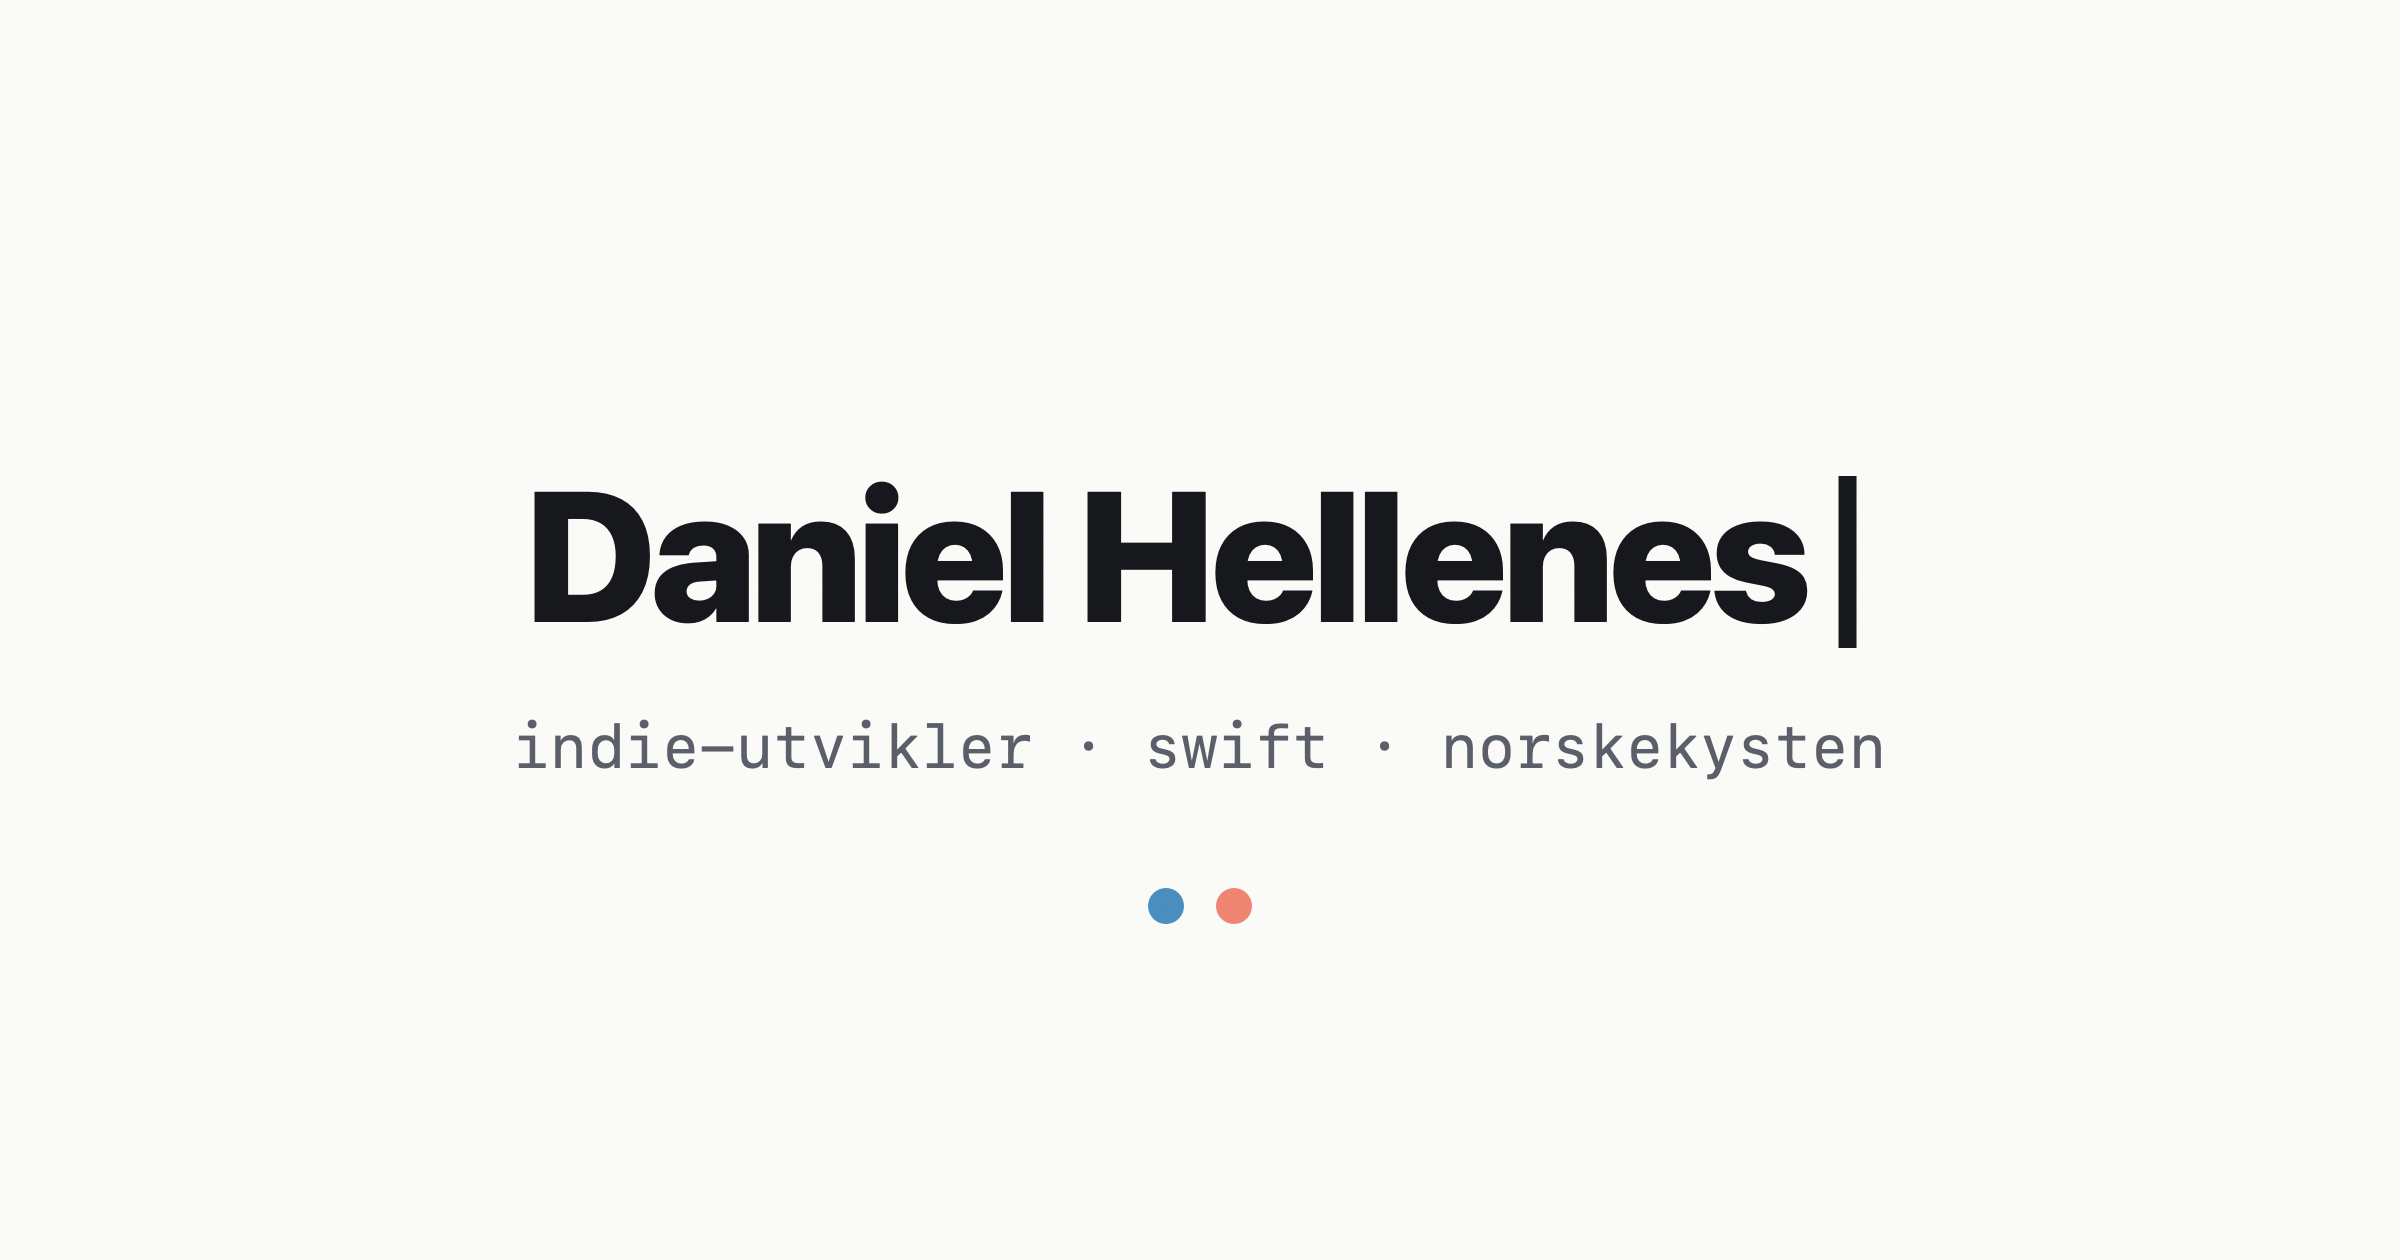
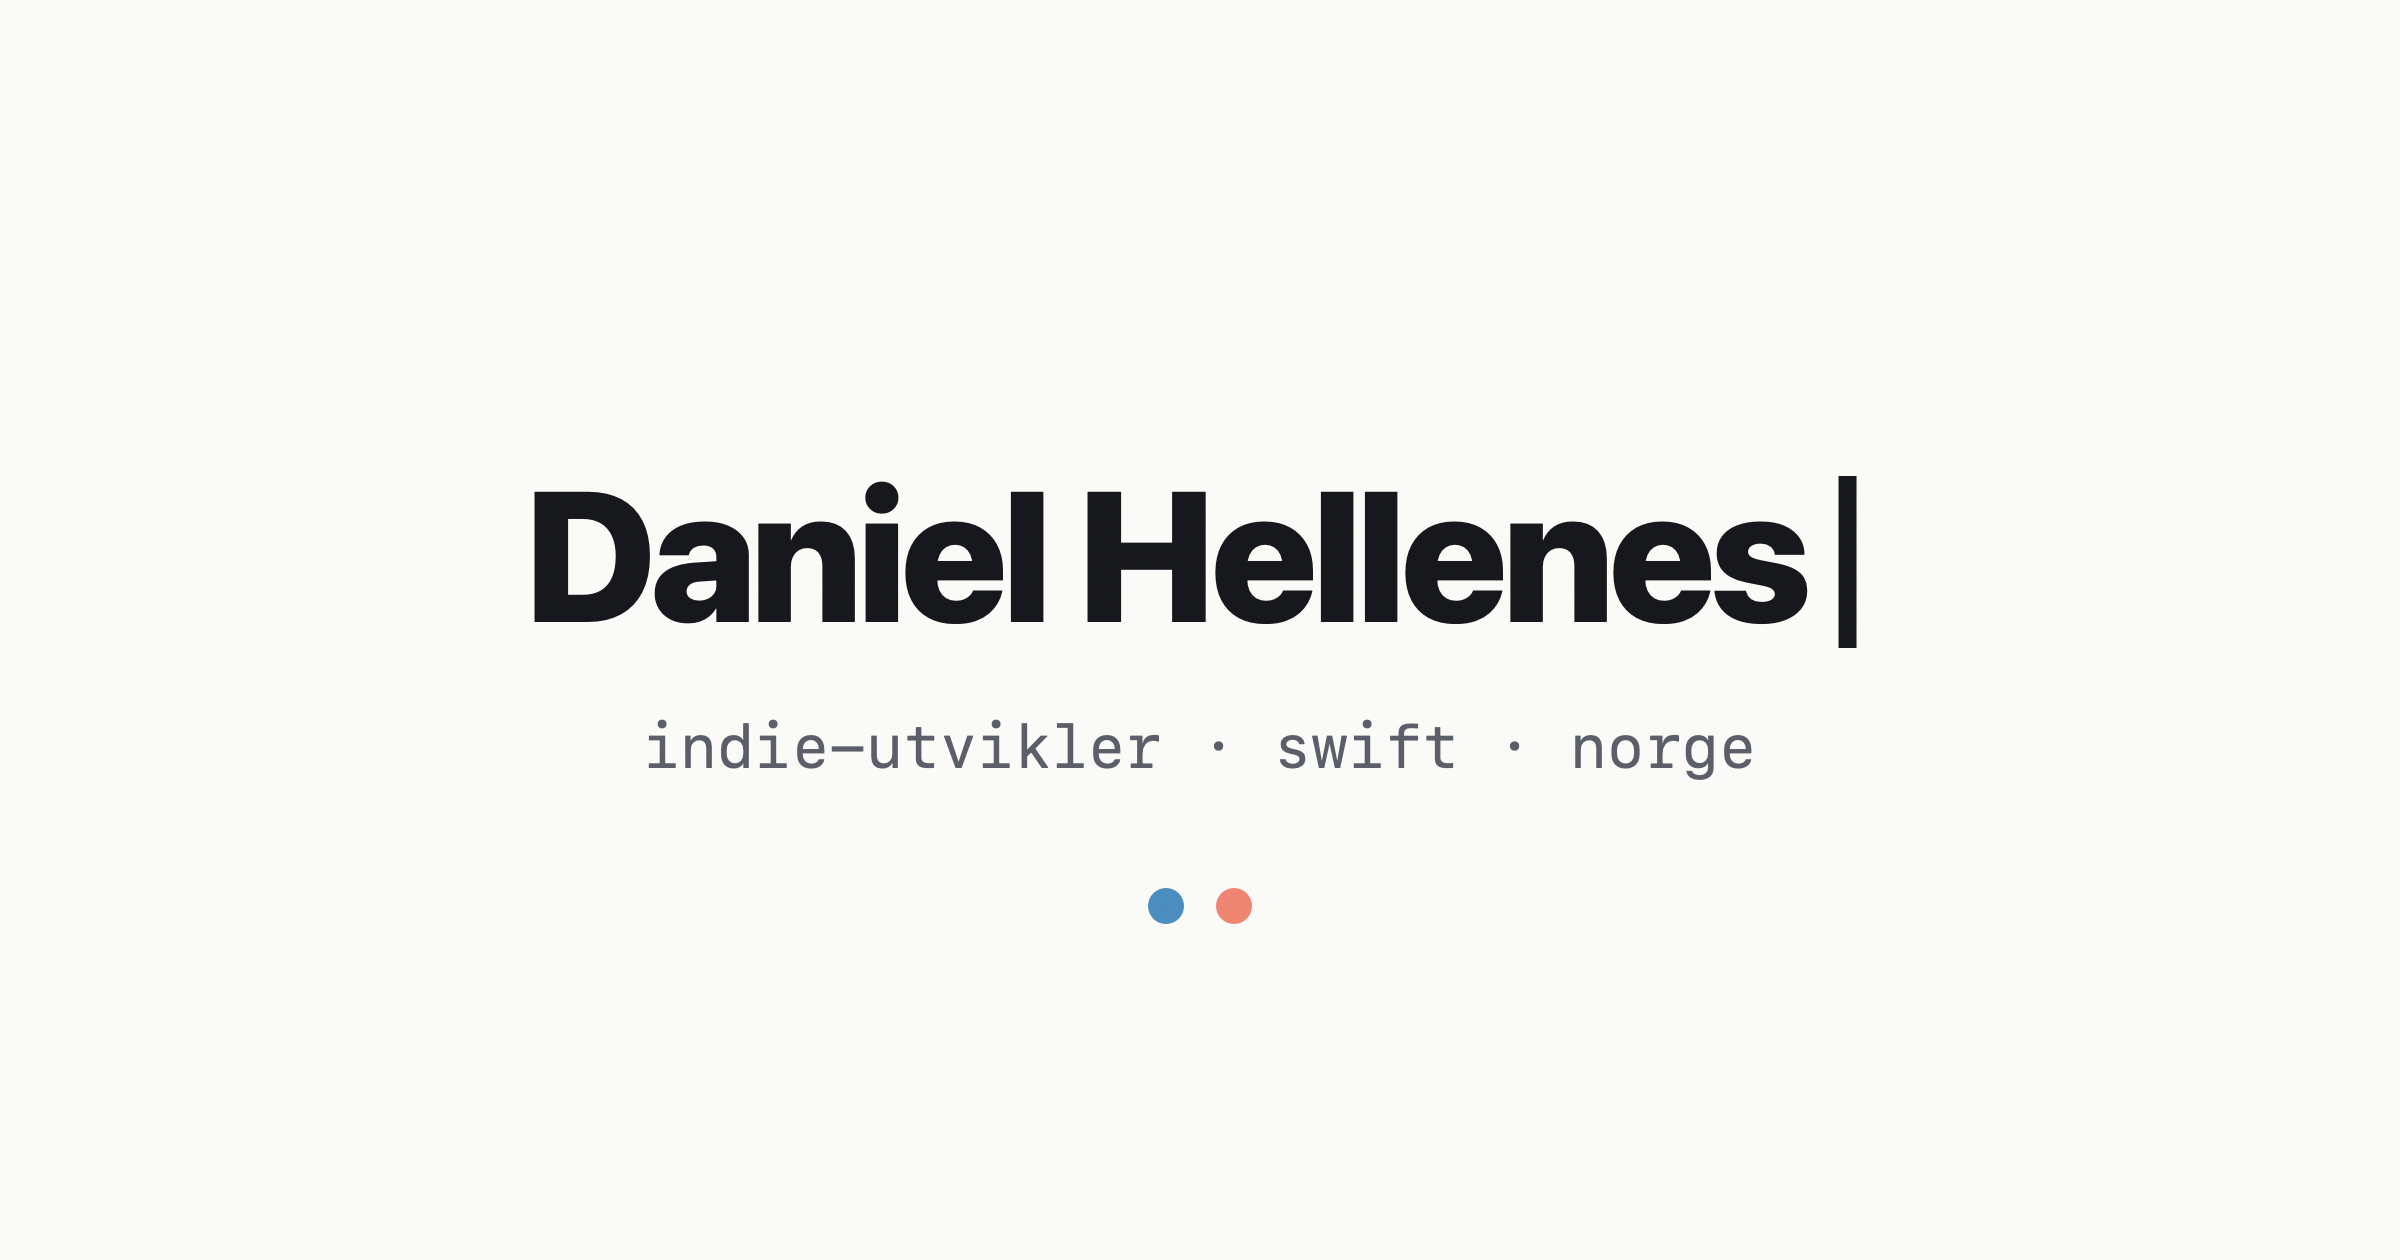
Generell utvikleridentitet: kysten hører hjemme i app-kortene, ikke i ingressen

Changed region(s): [[0.2188, 0.5571, 0.7812, 0.619]]

diff --git a/index.html b/index.html
@@ -4,9 +4,9 @@
 <meta charset="utf-8">
 <meta name="viewport" content="width=device-width, initial-scale=1">
 <title>Daniel Hellenes — apper</title>
-<meta name="description" content="Daniel Hellenes lager apper for livet langs norskekysten: Flo og Fjære (tidevann uten internett) og Hummerfiske (teiner, fangst og fredningssoner). Én utvikler, åpne norske data, null sporing.">
+<meta name="description" content="Daniel Hellenes bygger apper på fritiden — små, gjennomførte verktøy. Foreløpig: Flo og Fjære og Hummerfiske. Én utvikler, null sporing.">
 <meta property="og:title" content="Daniel Hellenes — apper">
-<meta property="og:description" content="Flo og Fjære og Hummerfiske. Én utvikler, åpne norske data, null sporing.">
+<meta property="og:description" content="Apper bygget på fritiden. Foreløpig: Flo og Fjære og Hummerfiske. Én utvikler, null sporing.">
 <meta property="og:image" content="https://villholth.github.io/og-bilde.png">
 <meta property="og:url" content="https://villholth.github.io/">
 <link rel="icon" href="/ikon.png">
@@ -204,10 +204,10 @@
   <header class="topp">
     <p class="sti mono">villholth.github.io</p>
     <h1>Daniel Hellenes<span class="markor" aria-hidden="true"></span></h1>
-    <p class="rolle mono">indie-utvikler · swift · norskekysten</p>
-    <p class="ingress">Jeg lager apper for livet langs kysten —
-    <strong>på fritiden, av en som bruker dem selv</strong>. Bygget på
-    åpne norske data, uten sporing, annonser eller kontoer.</p>
+    <p class="rolle mono">indie-utvikler · swift · norge</p>
+    <p class="ingress">Jeg bygger apper på fritiden — små, gjennomførte
+    verktøy for ting <strong>jeg selv trenger og bruker</strong>. Hva det
+    neste blir, vet jeg ikke ennå.</p>
   </header>
 
   <main>
@@ -263,8 +263,8 @@
     <ul class="prinsipper">
       <li><span class="prompt mono">&gt;</span><span><strong>Alt lokalt.</strong> Dataene dine bor på din telefon — jeg har ingen servere.</span></li>
       <li><span class="prompt mono">&gt;</span><span><strong>Null sporing.</strong> Ingen annonser, ingen analyseverktøy, ingen kontoer.</span></li>
-      <li><span class="prompt mono">&gt;</span><span><strong>Åpne norske data.</strong> Kartverket, Fiskeridirektoratet og MET — med full kreditering.</span></li>
-      <li><span class="prompt mono">&gt;</span><span><strong>Ærlige verktøy.</strong> Appene informerer og hjelper — de erstatter aldri sjømannskap eller regelverk.</span></li>
+      <li><span class="prompt mono">&gt;</span><span><strong>Åpne data der det finnes.</strong> Alltid med full kreditering av kilden.</span></li>
+      <li><span class="prompt mono">&gt;</span><span><strong>Ærlige verktøy.</strong> Appene lover bare det de faktisk holder.</span></li>
     </ul>
 
     <h2 class="md"><span class="hash mono">##</span>kontakt</h2>
